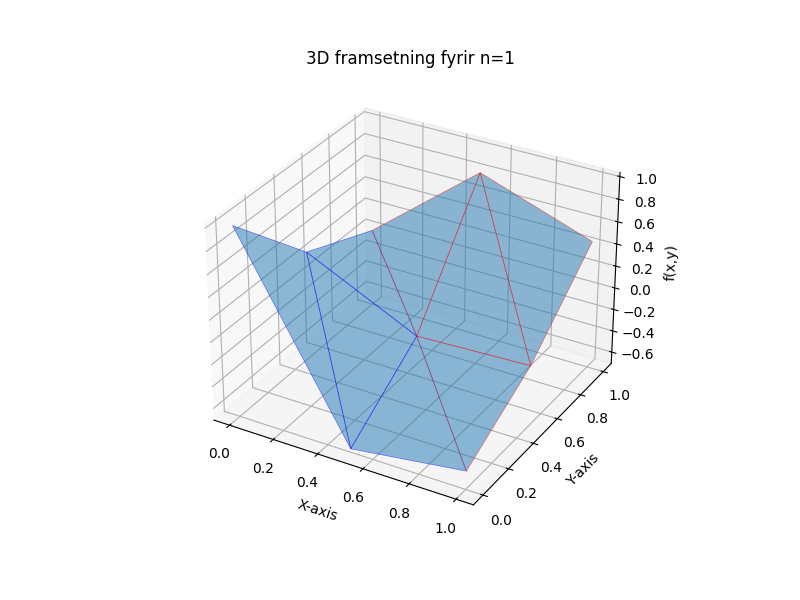
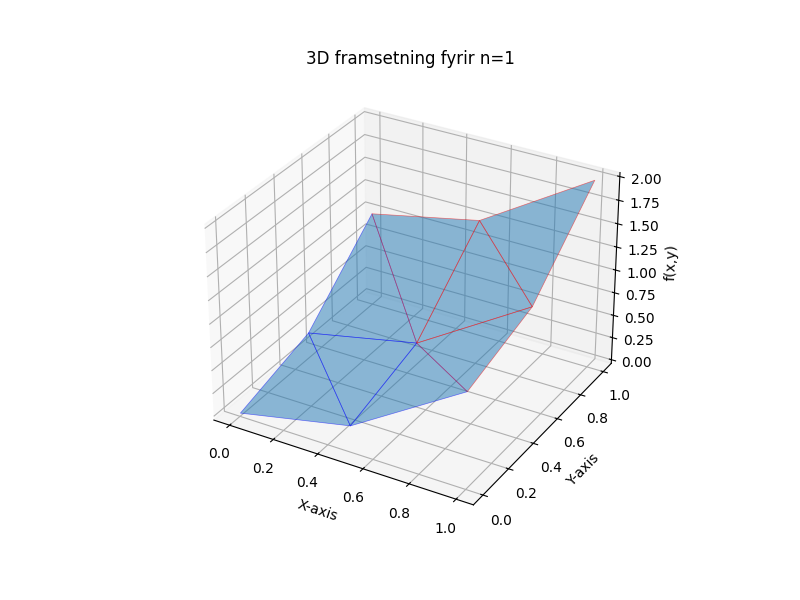
lokahönd lögð á verkefni

Changed region(s): [[0.25, 0.21, 0.8438, 0.78], [0.5312, 0.6, 0.5625, 0.63], [0.4688, 0.63, 0.5, 0.66]]

diff --git a/romberg3.py b/romberg3.py
@@ -4,19 +4,17 @@ import time
 import matplotlib.pyplot as plt
 from scipy.integrate import dblquad
 
-# Föll sem við ætlum að prófa
+
 test_functions = {
-    "sin_cos_exp": lambda x, y: np.sin(10*x) * np.cos(10*y) + np.exp(-5 * (x**2 + y**2)),
-    "gaussian_peak": lambda x, y: np.exp(-10 * ((x - 0.3)**2 + (y - 0.7)**2)),
-    "polynomial_exp": lambda x, y: (x**3 + y**4) * np.exp(-x - y),
-    "sin_ripple": lambda x, y: np.sin(5 * np.pi * x) * np.sin(5 * np.pi * y),
-    "fractal_mix": lambda x, y: np.sin(10*x) * np.cos(10*y) + np.exp(-5 * ((x-0.5)**2 + (y-0.5)**2)) + 0.5 * np.exp(-10 * ((x-0.2)**2 + (y-0.8)**2)),
+    "Flókið sveiflukennt fall": lambda x, y: np.sin(10*x) * np.cos(10*y) + np.exp(-5 * (x**2 + y**2)),
+    "Gaussískt fall": lambda x, y: np.exp(-10 * ((x - 0.3)**2 + (y - 0.7)**2)),
+    "Margliðu–veldisvísis fall": lambda x, y: (x**3 + y**4) * np.exp(-x - y),
+    "Sveiflukennt ripple": lambda x, y: np.sin(5 * np.pi * x) * np.sin(5 * np.pi * y),
+    "Samsett fall með háum sveiflum": lambda x, y: np.sin(10*x) * np.cos(10*y) + np.exp(-5 * ((x-0.5)**2 + (y-0.5)**2)) + 0.5 * np.exp(-10 * ((x-0.2)**2 + (y-0.8)**2)),
 }
 
-# Reikna nákvæmt gildi fyrir hvert fall
 exact_integrals = {name: dblquad(f, 0, 1, lambda y: 0, lambda y: 1)[0] for name, f in test_functions.items()}
 
-# Trapisuregla í 2D
 def trapezoidal_2d(f, a, b, c, d, n):
     x = np.linspace(a, b, n+1)
     y = np.linspace(c, d, n+1)
@@ -30,11 +28,10 @@ def trapezoidal_2d(f, a, b, c, d, n):
 
     return integral
 
-# Romberg fyrir trapisu
 def romberg_trapezoidal_2d(f, a, b, c, d, max_iter=5):
     R = np.zeros((max_iter, max_iter))
     for i in range(max_iter):
-        n = 2**i  # Fjöldi skiptinga
+        n = 2**i
         R[i, 0] = trapezoidal_2d(f, a, b, c, d, n)
 
         for j in range(1, i + 1):
@@ -42,7 +39,6 @@ def romberg_trapezoidal_2d(f, a, b, c, d, max_iter=5):
 
     return R[max_iter-1, max_iter-1]
 
-# Miðpunktsregla fyrir þríhyrninga
 def midpoint_triangle(f, tri):
     x1, y1 = tri[0]
     x2, y2 = tri[1]
@@ -52,18 +48,16 @@ def midpoint_triangle(f, tri):
     area = 0.5 * abs((x2 - x1) * (y3 - y1) - (x3 - x1) * (y2 - y1))
     return f(xm, ym) * area
 
-# Skipta þríhyrningi í fjóra minni þríhyrninga
 def subdivide_triangle(tri):
     x1, y1 = tri[0]
     x2, y2 = tri[1]
     x3, y3 = tri[2]
 
-    # Miðpunktar
     m12 = ((x1 + x2) / 2, (y1 + y2) / 2)
     m23 = ((x2 + x3) / 2, (y2 + y3) / 2)
     m31 = ((x3 + x1) / 2, (y3 + y1) / 2)
 
-    # Skilgreina fjóra minni þríhyrninga
+
     return [
         [tri[0], m12, m31],
         [m12, tri[1], m23],
@@ -71,7 +65,6 @@ def subdivide_triangle(tri):
         [m12, m23, m31]
     ]
 
-# Romberg fyrir þríhyrninga
 def romberg_triangles(f, max_iter=5):
     tri1 = [(0, 0), (1, 0), (0, 1)]
     tri2 = [(1, 0), (1, 1), (0, 1)]
@@ -86,7 +79,6 @@ def romberg_triangles(f, max_iter=5):
         R1[i, 0] = sum(midpoint_triangle(f, t) for t in triangles1)
         R2[i, 0] = sum(midpoint_triangle(f, t) for t in triangles2)
 
-        # Skipta þríhyrningum frekar niður
         triangles1 = [sub for t in triangles1 for sub in subdivide_triangle(t)]
         triangles2 = [sub for t in triangles2 for sub in subdivide_triangle(t)]
 
@@ -96,13 +88,11 @@ def romberg_triangles(f, max_iter=5):
 
     return R1[max_iter-1, max_iter-1] + R2[max_iter-1, max_iter-1]
 
-# Niðurstöður
 results = []
 
 for name, func in test_functions.items():
     exact = exact_integrals[name]
 
-    # Mæla tíma og skekkjur
     start_time = time.time()
     trap_result = romberg_trapezoidal_2d(func, 0, 1, 0, 1, max_iter=5)
     trap_time = time.time() - start_time
@@ -115,31 +105,27 @@ for name, func in test_functions.items():
 
     results.append([name, exact, trap_result, trap_error, trap_time, tri_result, tri_error, tri_time])
 
-# Búa til DataFrame
 df_results = pd.DataFrame(results, columns=["Fall", "Nákvæmt heildi", "Trapisuregla", "Trapisu skekkja",
                                             "Trapisu keyrslutími", "Þríhyrningsaðferð", "Þríhyrnings skekkja", "Þríhyrnings keyrslutími"])
 
-# Prenta niðurstöður í fallegu töfluformi
 print("\nSamanburður á Romberg Heildun\n")
 print(df_results.to_string(index=False))
 
-# Plotta samanburð á skekkju
 plt.figure(figsize=(8,5))
 plt.bar(df_results["Fall"], df_results["Trapisu skekkja"], label="Trapisu skekkja", alpha=0.7)
 plt.bar(df_results["Fall"], df_results["Þríhyrnings skekkja"], label="Þríhyrnings skekkja", alpha=0.7)
 plt.xticks(rotation=45)
 plt.yscale("log")  # Nota log-skala til að sjá betur mismuninn
-plt.ylabel("Error")
+plt.ylabel("Skekkja")
 plt.legend()
 plt.title("Samanburður á skekkju")
 plt.show()
 
-# Plotta samanburð á reiknitíma
 plt.figure(figsize=(8,5))
 plt.bar(df_results["Fall"], df_results["Þríhyrnings keyrslutími"], label="Þríhyrnings keyrslutími", alpha=0.7)
 plt.bar(df_results["Fall"], df_results["Trapisu keyrslutími"], label="Trapisu keyrslutími", alpha=0.7)
 plt.xticks(rotation=45)
-plt.ylabel("Time (seconds)")
+plt.ylabel("Tími (s)")
 plt.legend()
 plt.title("Samanburður á reiknitíma")
 plt.show()

diff --git a/romberg.py b/romberg.py
@@ -5,29 +5,26 @@ import matplotlib.patches as patches
 from mpl_toolkits.mplot3d import Axes3D
 from scipy.integrate import dblquad
 
-# Ensure the output directory exists
 output_dir = "output"
 os.makedirs(output_dir, exist_ok=True)
 
 def exact_integral(f):
     """
-    Computes the exact integral for comparison using numerical integration.
+    Reiknar nákvæmt heildi
     """
     result, _ = dblquad(f, 0, 1, lambda y: 0, lambda y: 1)
     return result
 
 def trapezoidal_2d(f, a, b, c, d, n, ax=None, plot_3d=False):
     """
-    Compute the 2D Trapezoidal Rule approximation for the integral of f over [a,b] x [c,d].
-    Visualize the grid points and trapezoidal regions at each step if ax is provided.
-    n: Number of intervals (must be a power of 2 for Romberg)
+    Reiknar trapisu reglu nálgun fyrir heildi f yfir [a,b]x[c,d]. Plottar einnig.
+    n: fjöldi hlutbila, þarf að vera veldi af 2
     """
     x = np.linspace(a, b, n+1)
     y = np.linspace(c, d, n+1)
     hx = (b - a) / n
     hy = (d - c) / n
 
-    # Compute function values on the grid
     integral = 0
     grid_x, grid_y, grid_z = [], [], []
     for i in range(n+1):
@@ -43,7 +40,6 @@ def trapezoidal_2d(f, a, b, c, d, n, ax=None, plot_3d=False):
                 rect = patches.Rectangle((x[i], y[j]), hx, hy, linewidth=1, edgecolor='red', facecolor='none')
                 ax.add_patch(rect)
 
-    # 3D plot visualization
     if plot_3d:
         fig = plt.figure(figsize=(8, 6))
         ax3d = fig.add_subplot(111, projection='3d')
@@ -59,17 +55,16 @@ def trapezoidal_2d(f, a, b, c, d, n, ax=None, plot_3d=False):
 
 def plot_trapezoids(a, b, c, d, n, iter_num):
     """
-    Plots the subdivided rectangles for the trapezoidal rule in 2D.
+    Plottar fall í 2d
     """
     fig, ax = plt.subplots(figsize=(6, 6))
 
-    # Compute grid points
+
     x = np.linspace(a, b, n+1)
     y = np.linspace(c, d, n+1)
     hx = (b - a) / n
     hy = (d - c) / n
 
-    # Draw rectangles in blue and red
     for i in range(n):
         for j in range(n):
             color = 'blue' if (i + j) % 2 == 0 else 'red'  # Alternate colors
@@ -86,8 +81,7 @@ def plot_trapezoids(a, b, c, d, n, iter_num):
 
 def romberg_2d(f, a, b, c, d, max_iter=5):
     """
-    Perform Romberg Integration in 2D using the trapezoidal rule.
-    Now includes 2D visualization of trapezoidal subdivisions.
+    Framkvæmir Romberg heildun í 2d með trapisureglu
     """
     R = np.zeros((max_iter, max_iter))
     exact_value = exact_integral(f)
@@ -97,30 +91,25 @@ def romberg_2d(f, a, b, c, d, max_iter=5):
     print("------------------------------------------")
 
     for i in range(max_iter):
-        n = 2**i  # Number of intervals along each dimension
+        n = 2**i
         R[i, 0] = trapezoidal_2d(f, a, b, c, d, n, plot_3d=True)
 
-        # Call the new 2D plot function
         plot_trapezoids(a, b, c, d, n, iter_num=i)
 
         error = abs(R[i, 0] - exact_value)
         print(f"{i+1:<9} | {R[i, 0]:<13.6f} | {error:.6e}")
 
-        # Romberg Extrapolation
         for j in range(1, i + 1):
             R[i, j] = (4**j * R[i, j-1] - R[i-1, j-1]) / (4**j - 1)
 
     plt.savefig(os.path.join(output_dir, 'romberg_trapezoids.png'))
     plt.close()
-    return R[max_iter-1, max_iter-1], R  # Return the final result and the Romberg table
+    return R[max_iter-1, max_iter-1], R
 
-# Example usage
 a, b = 0, 1
 c, d = 0, 1
 
-# Define function once and pass it as an argument
-test_function = lambda x, y: np.exp(-5 * ((x - 0.5)**2 + (y - 0.5)**2)) + \
-                             0.5 * np.exp(-10 * ((x - 0.2)**2 + (y - 0.8)**2))
+test_function = lambda x, y: np.sin(10*x) * np.cos(10*y) + np.exp(-5 * ((x-0.5)**2 + (y-0.5)**2)) + 0.5 * np.exp(-10 * ((x-0.2)**2 + (y-0.8)**2))
 
 result, R_table = romberg_2d(test_function, a, b, c, d, max_iter=5)
 print(f"Loka niðurstaða Romberg Heildunar: {result}")

diff --git a/romberg2.py b/romberg2.py
@@ -4,21 +4,19 @@ import os
 from scipy.integrate import dblquad
 from mpl_toolkits.mplot3d.art3d import Poly3DCollection
 
-# Ensure output directory exists
 output_dir = "output"
 os.makedirs(output_dir, exist_ok=True)
 
 def exact_integral(f):
     """
-    Computes the exact integral for comparison using numerical integration.
+    Reiknar nákvæmt heildi falls
     """
     result, _ = dblquad(f, 0, 1, lambda y: 0, lambda y: 1)
     return result
 
 def midpoint_triangle(f, tri):
     """
-    Approximates the integral over a triangle using the midpoint rule.
-    tri: List of three vertices [(x1, y1), (x2, y2), (x3, y3)]
+    Nálgar heildið yfir þríhyrning með því að nota miðpunktsreglu
     """
     x1, y1 = tri[0]
     x2, y2 = tri[1]
@@ -35,7 +33,7 @@ def midpoint_triangle(f, tri):
 
 def subdivide_triangle(tri):
     """
-    Subdivides a triangle into 4 smaller triangles.
+    Skiptir þríhyrningi í 4 minni
     """
     x1, y1 = tri[0]
     x2, y2 = tri[1]
@@ -56,7 +54,7 @@ def subdivide_triangle(tri):
 
 def plot_triangles(triangles1, triangles2, iter_num):
     """
-    Plots the subdivided triangles in 2D at each iteration.
+    Plottar í 2d
     """
     fig, ax = plt.subplots(figsize=(6, 6))
 
@@ -80,12 +78,11 @@ def plot_triangles(triangles1, triangles2, iter_num):
 
 def plot_3d_triangles(f, triangles1, triangles2, iter_num):
     """
-    Plots the function's surface dynamically, showing evolving triangular refinement.
+    Plottar fallið
     """
     fig = plt.figure(figsize=(8, 6))
     ax = fig.add_subplot(111, projection='3d')
 
-    # Iterate through all triangles and plot surfaces
     for color, triangles in zip(['blue', 'red'], [triangles1, triangles2]):
         for tri in triangles:
             x = [p[0] for p in tri] + [tri[0][0]]  # Close triangle loop
@@ -106,7 +103,7 @@ def plot_3d_triangles(f, triangles1, triangles2, iter_num):
 
 def romberg_triangles(f, max_iter=5):
     """
-    Performs Romberg Integration over a unit square split into two triangles.
+    Framkvæmir Romberg heildun yfir [0,1]x[0,1]
     """
     tri1 = [(0, 0), (1, 0), (0, 1)]
     tri2 = [(1, 0), (1, 1), (0, 1)]
@@ -119,8 +116,6 @@ def romberg_triangles(f, max_iter=5):
     print(f"Rétt gildi: {exact_value:.6f}")
     print("Ítrun     | Nálgun        | Skekkja")
     print("------------------------------------------")
-
-    # Start with the two initial triangles
     triangles1 = [tri1]
     triangles2 = [tri2]
 
@@ -148,10 +143,5 @@ def romberg_triangles(f, max_iter=5):
 
     print("\nLoka niðurstaða Romberg Heildunar (þríhyrninga): {:.6f}".format(final_result))
     return final_result
-
-# Define function once and pass it as an argument
-test_function = lambda x, y: np.exp(-5 * ((x - 0.5)**2 + (y - 0.5)**2)) + \
-                             0.5 * np.exp(-10 * ((x - 0.2)**2 + (y - 0.8)**2))
-
-# Execute the triangle-based Romberg integration with enhanced visualization
+test_function = lambda x, y: x**2+y**2
 romberg_triangles(test_function, max_iter=5)

diff --git a/visual.py b/visual.py
@@ -1,0 +1,36 @@
+import numpy as np
+import matplotlib.pyplot as plt
+from mpl_toolkits.mplot3d import Axes3D  # nauðsynlegt til 3D myndunar
+
+test_functions = {
+    "Flókið sveiflukennt fall": lambda x, y: np.sin(10*x) * np.cos(10*y) + np.exp(-5*(x**2 + y**2)),
+    "Gaussískt fall": lambda x, y: np.exp(-10*((x - 0.3)**2 + (y - 0.7)**2)),
+    "Margliðu–veldisvísis fall": lambda x, y: (x**3 + y**4) * np.exp(-x - y),
+    "Sveiflukennt ripple": lambda x, y: np.sin(5 * np.pi * x) * np.sin(5 * np.pi * y),
+    "Samsett fall með háum sveiflum": lambda x, y: (np.sin(10*x) * np.cos(10*y) +
+                                 np.exp(-5*((x - 0.5)**2 + (y - 0.5)**2)) +
+                                 0.5 * np.exp(-10*((x - 0.2)**2 + (y - 0.8)**2)))
+}
+
+x = np.linspace(0, 1, 200)
+y = np.linspace(0, 1, 200)
+X, Y = np.meshgrid(x, y)
+
+fig, axs = plt.subplots(nrows=2, ncols=3, figsize=(15,10), subplot_kw={'projection': '3d'})
+
+axs = axs.flatten()
+
+for ax, (name, func) in zip(axs, test_functions.items()):
+    Z = func(X, Y)
+    surf = ax.plot_surface(X, Y, Z, cmap='viridis', edgecolor='none', alpha=0.9)
+    ax.set_title(name)
+    ax.set_xlabel('x')
+    ax.set_ylabel('y')
+    ax.set_zlabel('z')
+    fig.colorbar(surf, ax=ax, shrink=0.5, aspect=10)
+
+for ax in axs[len(test_functions):]:
+    ax.set_visible(False)
+
+plt.tight_layout()
+plt.show()
